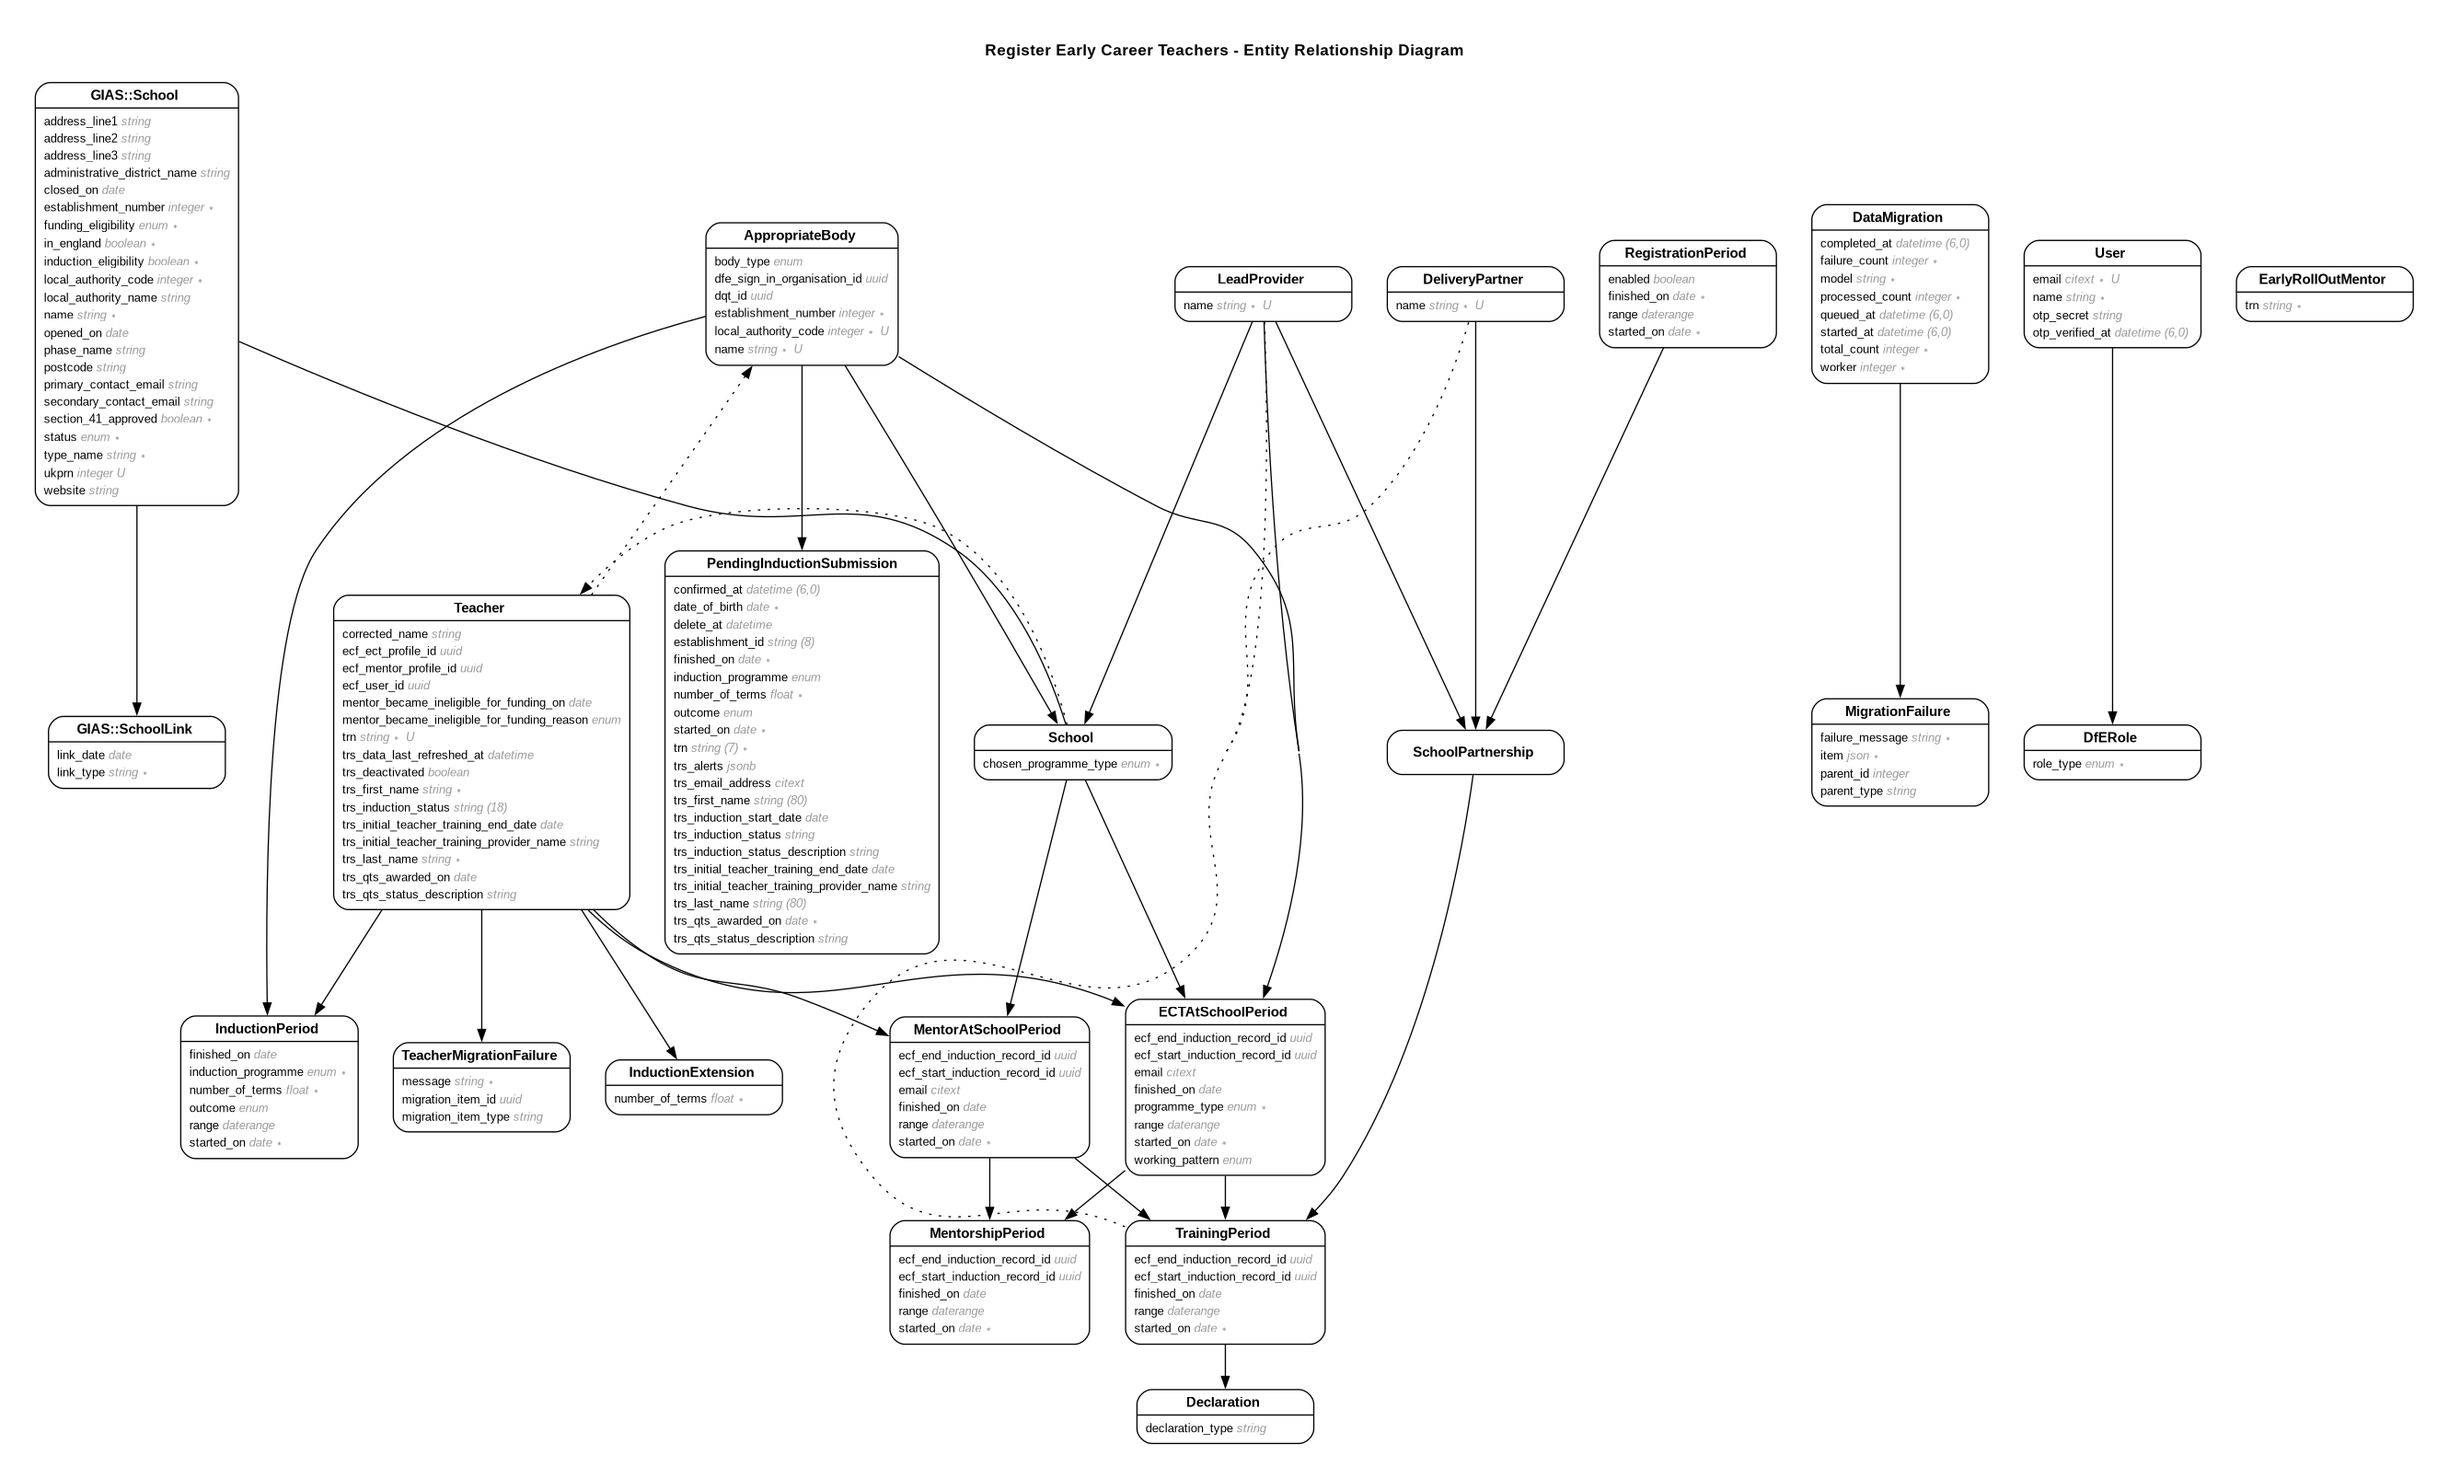
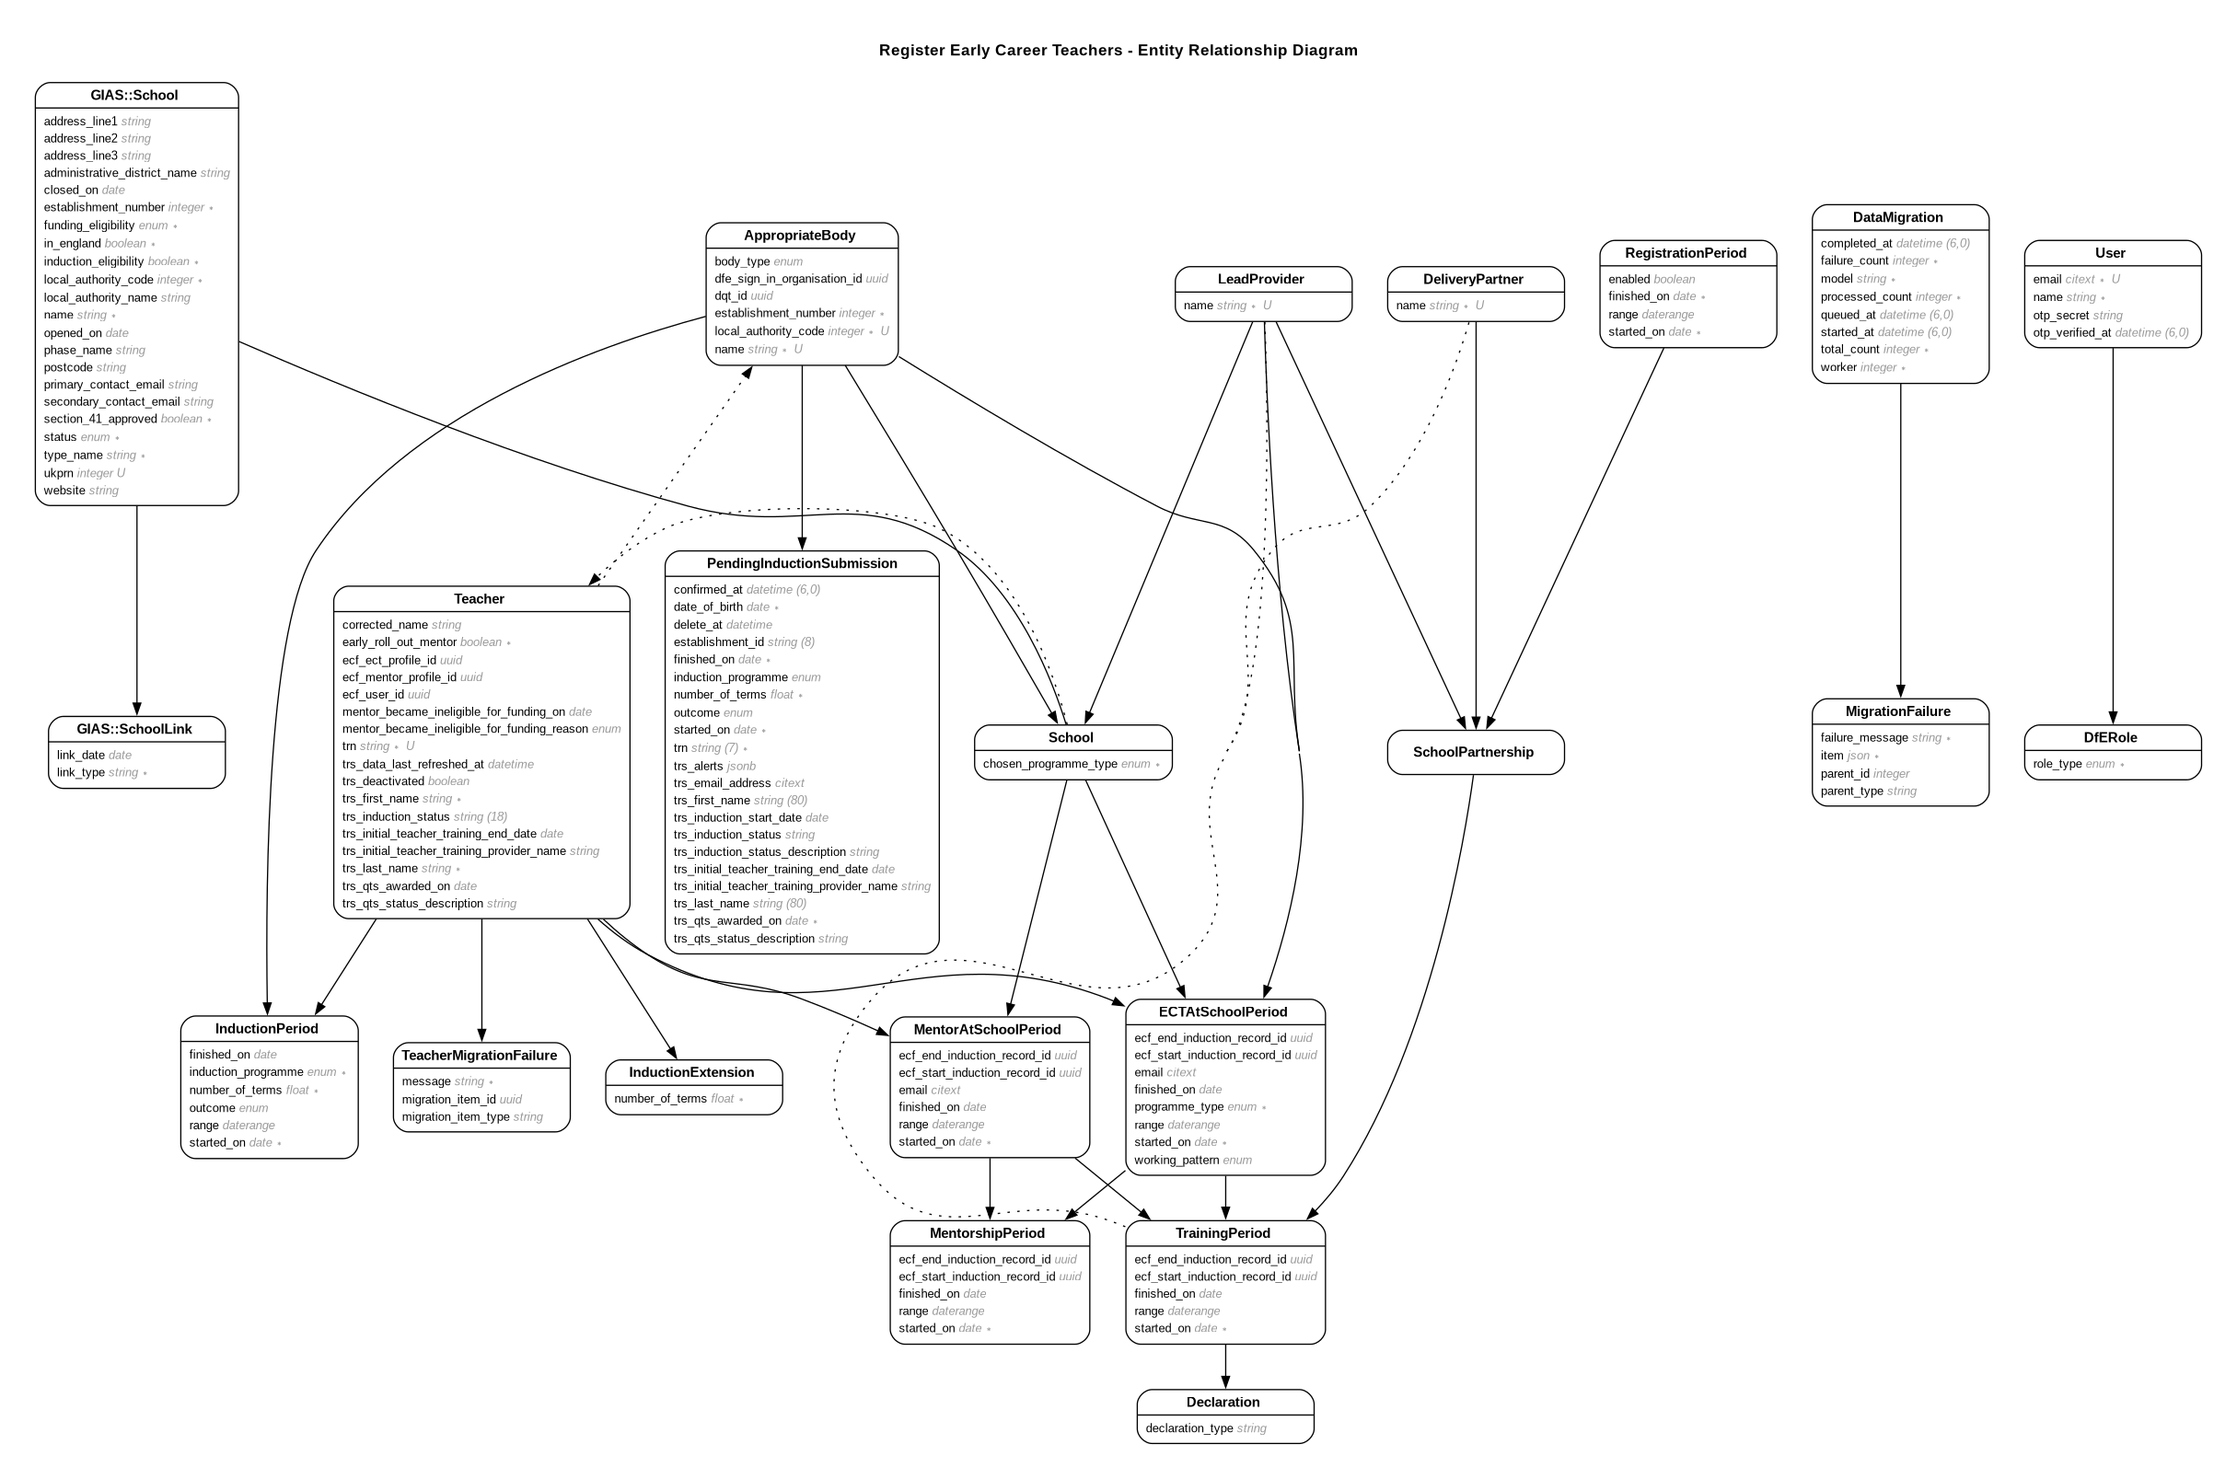
Drop early_roll_out_mentors table, add teacher flag
Early roll out mentor is a property of a teacher, it'll make more sense
to record it as a flag here than its own table.

diff --git a/db/schema.rb b/db/schema.rb
@@ -10,7 +10,7 @@
 #
 # It's strongly recommended that you check this file into your version control system.
 
-ActiveRecord::Schema[8.0].define(version: 2025_05_02_131734) do
+ActiveRecord::Schema[8.0].define(version: 2025_05_09_095837) do
   # These are extensions that must be enabled in order to support this database
   enable_extension "citext"
   enable_extension "pg_catalog.plpgsql"
@@ -132,12 +132,6 @@ ActiveRecord::Schema[8.0].define(version: 2025_05_02_131734) do
     t.datetime "created_at", null: false
     t.datetime "updated_at", null: false
     t.index ["user_id"], name: "index_dfe_roles_on_user_id"
-  end
-
-  create_table "early_roll_out_mentors", force: :cascade do |t|
-    t.string "trn", null: false
-    t.datetime "created_at", null: false
-    t.datetime "updated_at", null: false
   end
 
   create_table "ect_at_school_periods", force: :cascade do |t|
@@ -537,6 +531,7 @@ ActiveRecord::Schema[8.0].define(version: 2025_05_02_131734) do
     t.date "mentor_became_ineligible_for_funding_on"
     t.enum "mentor_became_ineligible_for_funding_reason", enum_type: "mentor_became_ineligible_for_funding_reason"
     t.boolean "trs_deactivated", default: false
+    t.boolean "early_roll_out_mentor", default: false, null: false
     t.index ["corrected_name"], name: "index_teachers_on_corrected_name"
     t.index ["search"], name: "index_teachers_on_search", using: :gin
     t.index ["trn"], name: "index_teachers_on_trn", unique: true

diff --git a/db/migrate/20250509095706_drop_early_roll_out_mentors.rb b/db/migrate/20250509095706_drop_early_roll_out_mentors.rb
@@ -1,0 +1,13 @@
+class DropEarlyRollOutMentors < ActiveRecord::Migration[8.0]
+  def up
+    drop_table :early_roll_out_mentors
+  end
+
+  def down
+    create_table "early_roll_out_mentors", force: :cascade do |t|
+      t.string "trn", null: false
+      t.datetime "created_at", null: false
+      t.datetime "updated_at", null: false
+    end
+  end
+end

diff --git a/db/migrate/20250509095837_add_early_roll_out_mentors_flag_to_teacher.rb b/db/migrate/20250509095837_add_early_roll_out_mentors_flag_to_teacher.rb
@@ -1,0 +1,5 @@
+class AddEarlyRollOutMentorsFlagToTeacher < ActiveRecord::Migration[8.0]
+  def change
+    add_column :teachers, :early_roll_out_mentor, :boolean, default: false, null: false
+  end
+end
